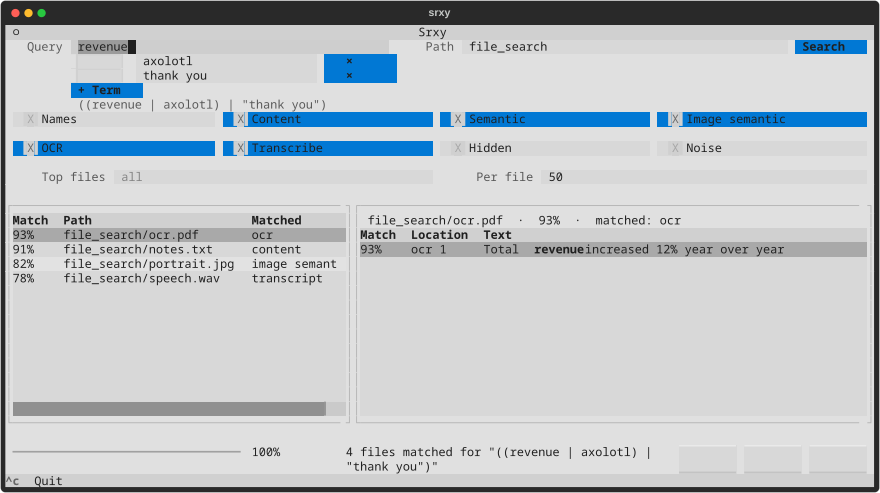
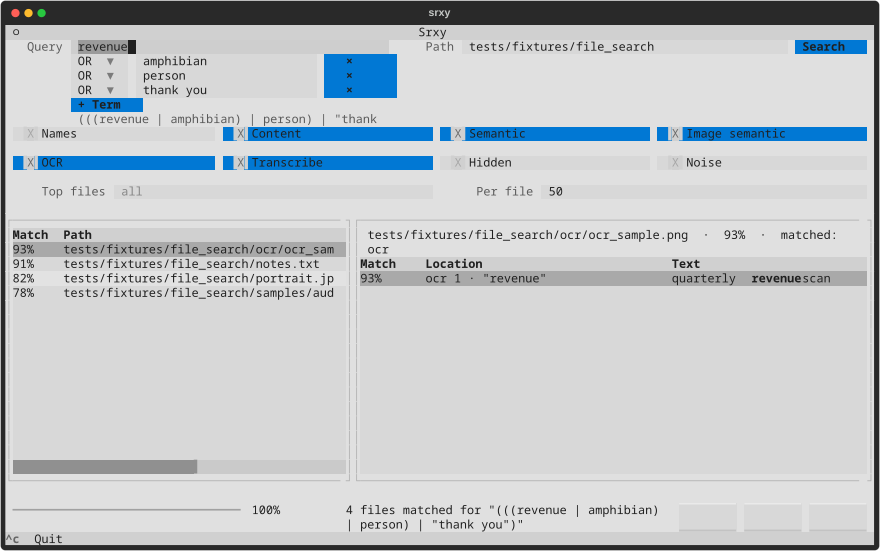
cool query

diff --git a/docs/tui.md b/docs/tui.md
@@ -4,6 +4,25 @@ On an interactive terminal (no `--json`, `--format flat`, or `-o`), srxy opens a
 
 ![srxy TUI](images/tui.png)
 
+The screenshot above uses this compound OR query against the repo fixtures — one branch per power-up:
+
+```bash
+srxy "revenue|amphibian|person|thank you" ./tests/fixtures/file_search --semantic-all --content-only
+```
+
+Plain CLI (same flags, no TUI): add `--no-tui`.
+
+| OR term | Typical match | Source |
+|---------|---------------|--------|
+| `revenue` | `ocr/ocr_sample.png` | OCR |
+| `amphibian` | `notes.txt` | content / semantic |
+| `person` | `portrait.jpg` | image semantic |
+| `thank you` | `samples/audio/speech_sample.mp3` | transcript |
+
+First run with `--semantic-all` downloads models; OCR and transcribe need **tesseract** and **ffmpeg** on `PATH`. The transcript branch expects an `.mp3` under `samples/audio/` (see `tests/fixtures/README.md`).
+
+Regenerate the screenshot: `./scripts/docs/export_tui_screenshot.sh`
+
 ## Layout
 
 | Area | What it shows |
@@ -70,5 +89,3 @@ Automated coverage: `pytest tests/tui/`. On a **real TTY** before release:
 srxy ./tests/fixtures/file_search
 srxy "axolotl" ./tests/fixtures/file_search
 ```
-
-Regenerate the screenshot: `./scripts/docs/export_tui_screenshot.sh`